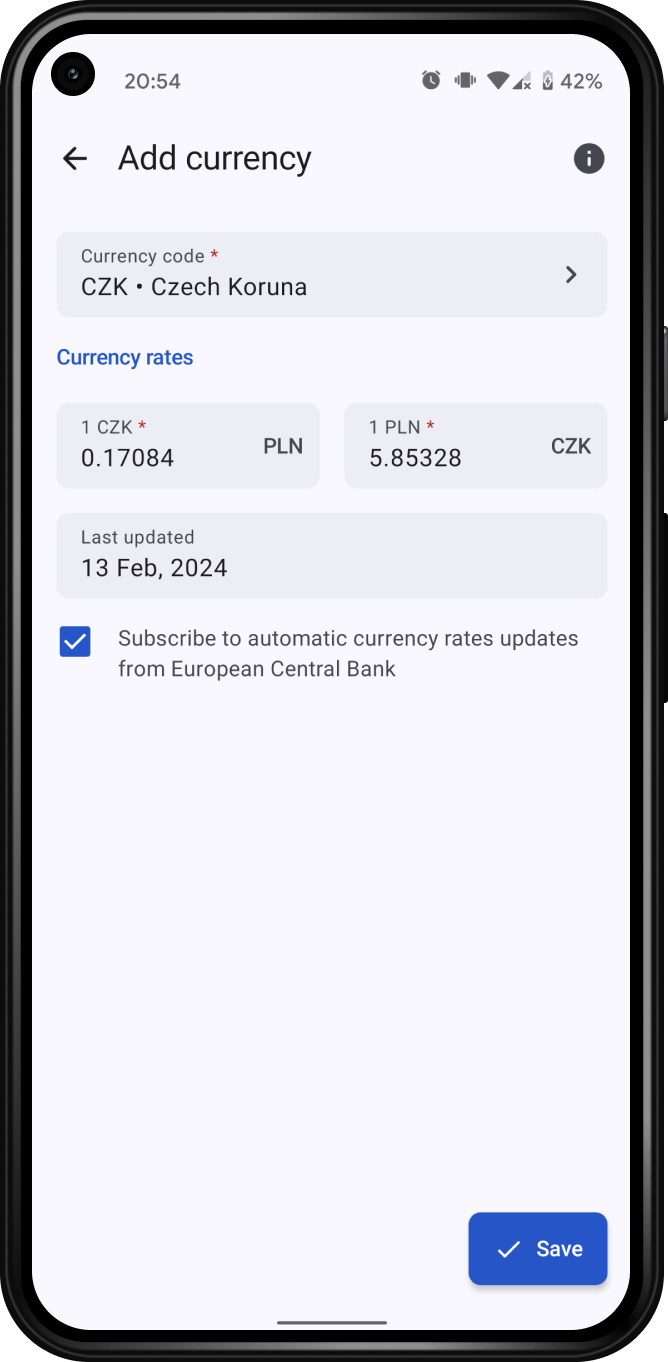
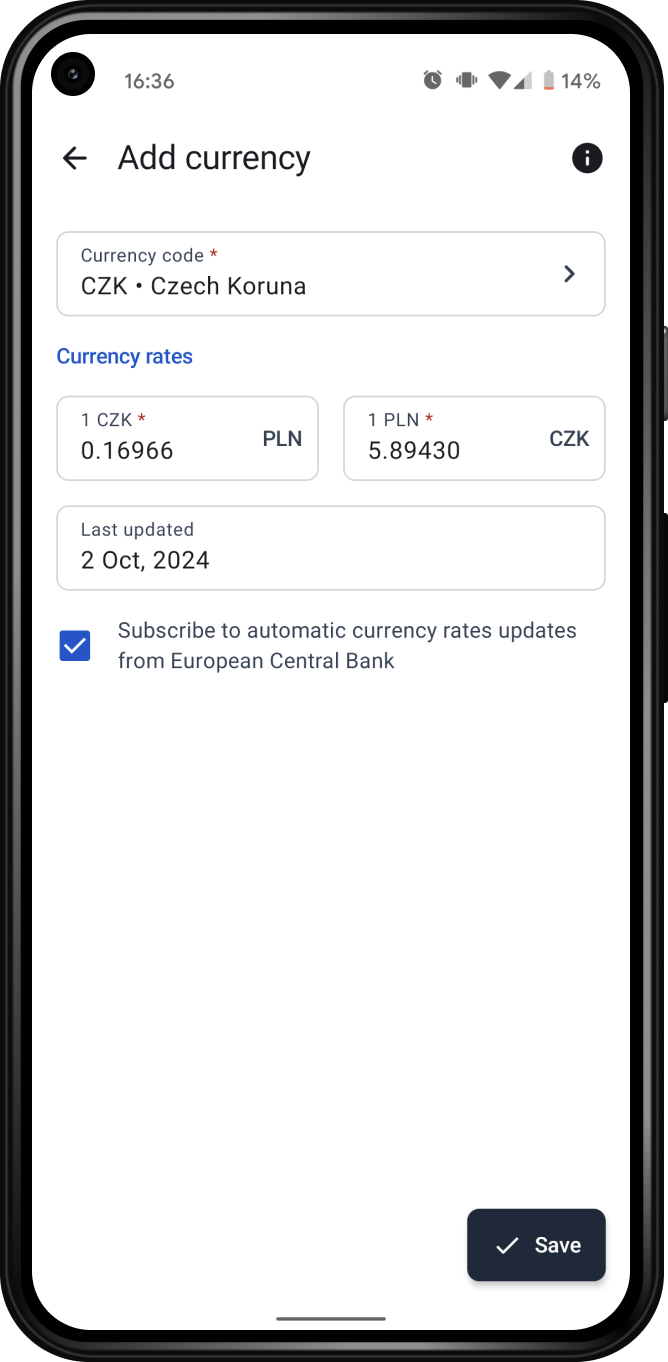
Update color scheme

diff --git a/core/ui/src/main/java/org/expenny/core/ui/foundation/Color.kt b/core/ui/src/main/java/org/expenny/core/ui/foundation/Color.kt
@@ -1,21 +1,21 @@
 package org.expenny.core.ui.foundation
 
 import androidx.compose.material3.ColorScheme
-import androidx.compose.material3.MaterialTheme
 import androidx.compose.material3.darkColorScheme
 import androidx.compose.material3.lightColorScheme
 import androidx.compose.runtime.Composable
 import androidx.compose.ui.graphics.Color
+import org.expenny.core.ui.extensions.isApplicationInDarkMode
 
 internal val lightColors = lightColorScheme(
     primary = Color(0xFF0856CE),
     onPrimary = Color(0xFFFFFFFF),
-    primaryContainer = Color(0xFFDAE2FF),
-    onPrimaryContainer = Color(0xFF001847),
-    secondary = Color(0xFF585E71),
+    primaryContainer = Color(0xFFD4E4F6),
+    onPrimaryContainer = Color(0xFF0D1D2A),
+    secondary = Color(0xFF334155),
     onSecondary = Color(0xFFFFFFFF),
-    secondaryContainer = Color(0xFFD7DDEE),
-    onSecondaryContainer = Color(0xFF151B2C),
+    secondaryContainer = Color(0xFFE2E8F0),
+    onSecondaryContainer = Color(0xFF1E293B),
     tertiary = Color(0xFF735471),
     onTertiary = Color(0xFFFFFFFF),
     tertiaryContainer = Color(0xFFFED7F9),
@@ -26,35 +26,35 @@ internal val lightColors = lightColorScheme(
     onErrorContainer = Color(0xFF410002),
     background = Color(0xFFFBFBFF),
     onBackground = Color(0xFF1A1B21),
-    surface = Color(0xFFFBFBFF),
+    surface = Color(0xFFFFFFFF),
     onSurface = Color(0xFF1A1B21),
-    surfaceVariant = Color(0xFFE1E2EC),
-    onSurfaceVariant = Color(0xFF45464F),
-    outline = Color(0xFF757780),
-    outlineVariant = Color(0xFFC5C8D0),
+    surfaceVariant = Color(0xFFF8FAFC),
+    onSurfaceVariant = Color(0xFF334155),
+    outline = Color(0xFF475569),
+    outlineVariant = Color(0xFFD1D5DB),
     inverseOnSurface = Color(0xFFFBFBFF),
     inverseSurface = Color(0xFF121318),
-    inversePrimary = Color(0xFFB2C5FF),
+    inversePrimary = Color(0xFFB1D0FF),
     surfaceTint = Color(0xFF0856CE),
     scrim = Color(0xFF000000),
     surfaceBright = Color(0xFFFAF8FF),
-    surfaceContainer = Color(0xFFEDF1F7),
-    surfaceContainerHigh = Color(0xFFE7EAF2),
-    surfaceContainerHighest = Color(0xFFE1E5EC),
-    surfaceContainerLow = Color(0xFFF6F8FC),
+    surfaceContainer = Color(0xFFF4F6F8),
+    surfaceContainerHigh = Color(0xFFE2E8F0),
+    surfaceContainerHighest = Color(0xFFCBD5E1),
+    surfaceContainerLow = Color(0xFFF8FAFC),
     surfaceContainerLowest = Color(0xFFFFFFFF),
     surfaceDim = Color(0xFFD9D9E3),
 )
 
 internal val darkColors = darkColorScheme(
-    primary = Color(0xFFB2C5FF),
-    onPrimary = Color(0xFF002C72),
-    primaryContainer = Color(0xFF0040A0),
+    primary = Color(0xFFB1D0FF),
+    onPrimary = Color(0xFF16274B),
+    primaryContainer = Color(0xFF13438C),
     onPrimaryContainer = Color(0xFFDAE2FF),
-    secondary = Color(0xFFC0C6DD),
-    onSecondary = Color(0xFF2A3042),
-    secondaryContainer = Color(0xFF404659),
-    onSecondaryContainer = Color(0xFFDCE2F9),
+    secondary = Color(0xFFC1C4D4),
+    onSecondary = Color(0xFF1A1B21),
+    secondaryContainer = Color(0xFF33343A),
+    onSecondaryContainer = Color(0xFFC1C4D4),
     tertiary = Color(0xFFE1BBDD),
     onTertiary = Color(0xFF412741),
     tertiaryContainer = Color(0xFF5A3D59),
@@ -69,12 +69,12 @@ internal val darkColors = darkColorScheme(
     onSurface = Color(0xFFFBFBFF),
     surfaceVariant = Color(0xFF45464F),
     onSurfaceVariant = Color(0xFFC5C6D0),
-    outline = Color(0xFF8F909A),
+    outline = Color(0xFF6B7280),
     outlineVariant = Color(0xFF45464F),
     inverseOnSurface = Color(0xFF1A1B21),
-    inverseSurface = Color(0xFFFBFBFF),
+    inverseSurface = Color(0xFFFFFFFF),
     inversePrimary = Color(0xFF0856CE),
-    surfaceTint = Color(0xFFB2C5FF),
+    surfaceTint = Color(0xFFB1D0FF),
     scrim = Color(0xFF000000),
     surfaceBright = Color(0xFF23252E),
     surfaceContainer = Color(0xFF1E2026),
@@ -87,6 +87,11 @@ internal val darkColors = darkColorScheme(
 
 val ColorScheme.transparent: Color
     @Composable get() = Color.Transparent
+
+val ColorScheme.primaryContrast: Color
+    @Composable get() {
+        return if (isApplicationInDarkMode) Color(0xFFCBD5E1) else Color(0xFF1E293B)
+    }
 
 val ColorScheme.primaryFixed: Color
     @Composable get() = Color(0xFF0856CE)

diff --git a/core/ui/src/main/java/org/expenny/core/ui/components/ExpennySwitch.kt b/core/ui/src/main/java/org/expenny/core/ui/components/ExpennySwitch.kt
@@ -1,13 +1,21 @@
 package org.expenny.core.ui.components
 
+import androidx.compose.foundation.layout.size
 import androidx.compose.foundation.layout.sizeIn
 import androidx.compose.material3.ExperimentalMaterial3Api
+import androidx.compose.material3.Icon
 import androidx.compose.material3.LocalMinimumInteractiveComponentEnforcement
+import androidx.compose.material3.MaterialTheme
 import androidx.compose.material3.Switch
+import androidx.compose.material3.SwitchDefaults
 import androidx.compose.runtime.Composable
 import androidx.compose.runtime.CompositionLocalProvider
 import androidx.compose.ui.Modifier
+import androidx.compose.ui.graphics.compositeOver
+import androidx.compose.ui.res.painterResource
 import androidx.compose.ui.unit.dp
+import org.expenny.core.ui.foundation.transparent
+import org.expenny.core.resources.R
 
 @OptIn(ExperimentalMaterial3Api::class)
 @Composable
@@ -24,6 +32,27 @@ fun ExpennySwitch(
             ),
             enabled = isEnabled,
             checked = isSelected,
+            colors = SwitchDefaults.colors().copy(
+                disabledUncheckedTrackColor = MaterialTheme.colorScheme.outline
+                    .copy(alpha = 0.24f).compositeOver(MaterialTheme.colorScheme.surface),
+                disabledUncheckedIconColor = MaterialTheme.colorScheme.outline,
+                disabledUncheckedThumbColor = MaterialTheme.colorScheme.outline
+                    .copy(alpha = 0.38f).compositeOver(MaterialTheme.colorScheme.surface),
+                disabledUncheckedBorderColor = MaterialTheme.colorScheme.transparent,
+                uncheckedTrackColor = MaterialTheme.colorScheme.outline,
+                uncheckedIconColor = MaterialTheme.colorScheme.outline,
+                uncheckedThumbColor = MaterialTheme.colorScheme.surfaceContainerLow,
+                uncheckedBorderColor = MaterialTheme.colorScheme.transparent,
+            ),
+            thumbContent = {
+                Icon(
+                    modifier = Modifier.size(SwitchDefaults.IconSize),
+                    painter = painterResource(
+                        if (isSelected) R.drawable.ic_check else R.drawable.ic_close
+                    ),
+                    contentDescription = null
+                )
+            },
             onCheckedChange = onClick
         )
     }

diff --git a/core/ui/src/main/java/org/expenny/core/ui/components/ExpennyButton.kt b/core/ui/src/main/java/org/expenny/core/ui/components/ExpennyButton.kt
@@ -24,6 +24,7 @@ import org.expenny.core.resources.R
 import org.expenny.core.ui.base.BooleanPreviewParameterProvider
 import org.expenny.core.ui.base.ExpennyPreview
 import org.expenny.core.ui.foundation.ExpennyThemePreview
+import org.expenny.core.ui.foundation.primaryContrast
 
 @Composable
 fun ExpennyButton(
@@ -46,10 +47,10 @@ fun ExpennyButton(
         interactionSource = remember { MutableInteractionSource() },
         shape = MaterialTheme.shapes.small,
         colors = ButtonDefaults.buttonColors(
-            containerColor = MaterialTheme.colorScheme.primary,
+            containerColor = MaterialTheme.colorScheme.primaryContrast,
             contentColor = MaterialTheme.colorScheme.onPrimary,
-            disabledContainerColor = MaterialTheme.colorScheme.primary.copy(0.12f),
-            disabledContentColor = MaterialTheme.colorScheme.primary.copy(0.38f),
+            disabledContainerColor = MaterialTheme.colorScheme.primaryContrast.copy(0.12f),
+            disabledContentColor = MaterialTheme.colorScheme.primaryContrast.copy(0.38f),
         ),
         contentPadding = PaddingValues(
             start = if (leadingContent == null) 24.dp else 16.dp,

diff --git a/core/ui/src/main/java/org/expenny/core/ui/components/ExpennyFab.kt b/core/ui/src/main/java/org/expenny/core/ui/components/ExpennyFab.kt
@@ -43,6 +43,7 @@ import org.expenny.core.resources.R
 import org.expenny.core.ui.base.BooleanPreviewParameterProvider
 import org.expenny.core.ui.base.ExpennyPreview
 import org.expenny.core.ui.foundation.ExpennyThemePreview
+import org.expenny.core.ui.foundation.primaryContrast
 
 
 @Composable
@@ -63,7 +64,7 @@ fun ExpennyFab(
         },
         enabled = isEnabled,
         shape = MaterialTheme.shapes.small,
-        color = MaterialTheme.colorScheme.primary,
+        color = MaterialTheme.colorScheme.primaryContrast,
         contentColor = contentColor,
         interactionSource = remember { MutableInteractionSource() },
         shadowElevation = 3.dp,
@@ -122,7 +123,7 @@ fun ExpennyFab(
         },
         enabled = isEnabled,
         shape = MaterialTheme.shapes.small,
-        color = MaterialTheme.colorScheme.primary,
+        color = MaterialTheme.colorScheme.primaryContrast,
         contentColor = contentColor,
         interactionSource = remember { MutableInteractionSource() },
         shadowElevation = 3.dp,

diff --git a/core/ui/src/main/java/org/expenny/core/ui/components/ExpennyDateRangeFilter.kt b/core/ui/src/main/java/org/expenny/core/ui/components/ExpennyDateRangeFilter.kt
@@ -31,6 +31,7 @@ import org.expenny.core.common.extensions.toDateRangeString
 import org.expenny.core.resources.R
 import org.expenny.core.ui.base.ExpennyPreview
 import org.expenny.core.ui.foundation.ExpennyThemePreview
+import org.expenny.core.ui.foundation.primaryContrast
 import org.expenny.core.ui.reducers.IntervalTypeStateReducer
 import java.time.LocalDate
 
@@ -78,7 +79,7 @@ fun ExpennyDateRangeFilter(
                 },
                 onClick = onClick,
                 shape = MaterialTheme.shapes.small,
-                color = MaterialTheme.colorScheme.primary,
+                color = MaterialTheme.colorScheme.primaryContrast,
                 contentColor = MaterialTheme.colorScheme.onPrimary,
                 tonalElevation = 0.dp,
                 shadowElevation = 3.dp,

diff --git a/feature/passcode/src/main/java/org/expenny/feature/passcode/view/PasscodeKeyboard.kt b/feature/passcode/src/main/java/org/expenny/feature/passcode/view/PasscodeKeyboard.kt
@@ -86,7 +86,7 @@ private fun BiometricButton(
 ) {
     val iconColor =
         if (isEnabled) MaterialTheme.colorScheme.primary
-        else MaterialTheme.colorScheme.surfaceVariant
+        else MaterialTheme.colorScheme.onSurfaceVariant
 
     KeyboardButton(
         modifier = modifier,
@@ -111,7 +111,7 @@ private fun BackspaceButton(
 ) {
     val iconColor =
         if (isEnabled) MaterialTheme.colorScheme.primary
-        else MaterialTheme.colorScheme.surfaceVariant
+        else MaterialTheme.colorScheme.onSurfaceVariant
 
     KeyboardButton(
         modifier = modifier,

diff --git a/core/ui/src/main/java/org/expenny/core/ui/extensions/CommonExtensions.kt b/core/ui/src/main/java/org/expenny/core/ui/extensions/CommonExtensions.kt
@@ -1,0 +1,8 @@
+package org.expenny.core.ui.extensions
+
+import androidx.compose.material3.MaterialTheme
+import androidx.compose.runtime.Composable
+import org.expenny.core.ui.foundation.primaryFixed
+
+val isApplicationInDarkMode
+    @Composable get() = MaterialTheme.colorScheme.primary != MaterialTheme.colorScheme.primaryFixed

diff --git a/core/ui/src/main/java/org/expenny/core/ui/data/IconUi.kt b/core/ui/src/main/java/org/expenny/core/ui/data/IconUi.kt
@@ -21,7 +21,7 @@ data class IconUi(
             @Composable get() = IconUi(
                 iconResId = R.drawable.ic_unknown,
                 iconResName = "ic_unknown",
-                color = MaterialTheme.colorScheme.surfaceVariant
+                color = MaterialTheme.colorScheme.onSurfaceVariant
             )
     }
 }

diff --git a/README.md b/README.md
@@ -20,4 +20,5 @@ Android app for tracking and analysing cash-flow<br/>
   <img src="./docs/frame_3.png" height="480">
   <img src="./docs/frame_4.png" height="480">
   <img src="./docs/frame_5.png" height="480">
+  <img src="./docs/frame_6.png" height="480">
 </p>
